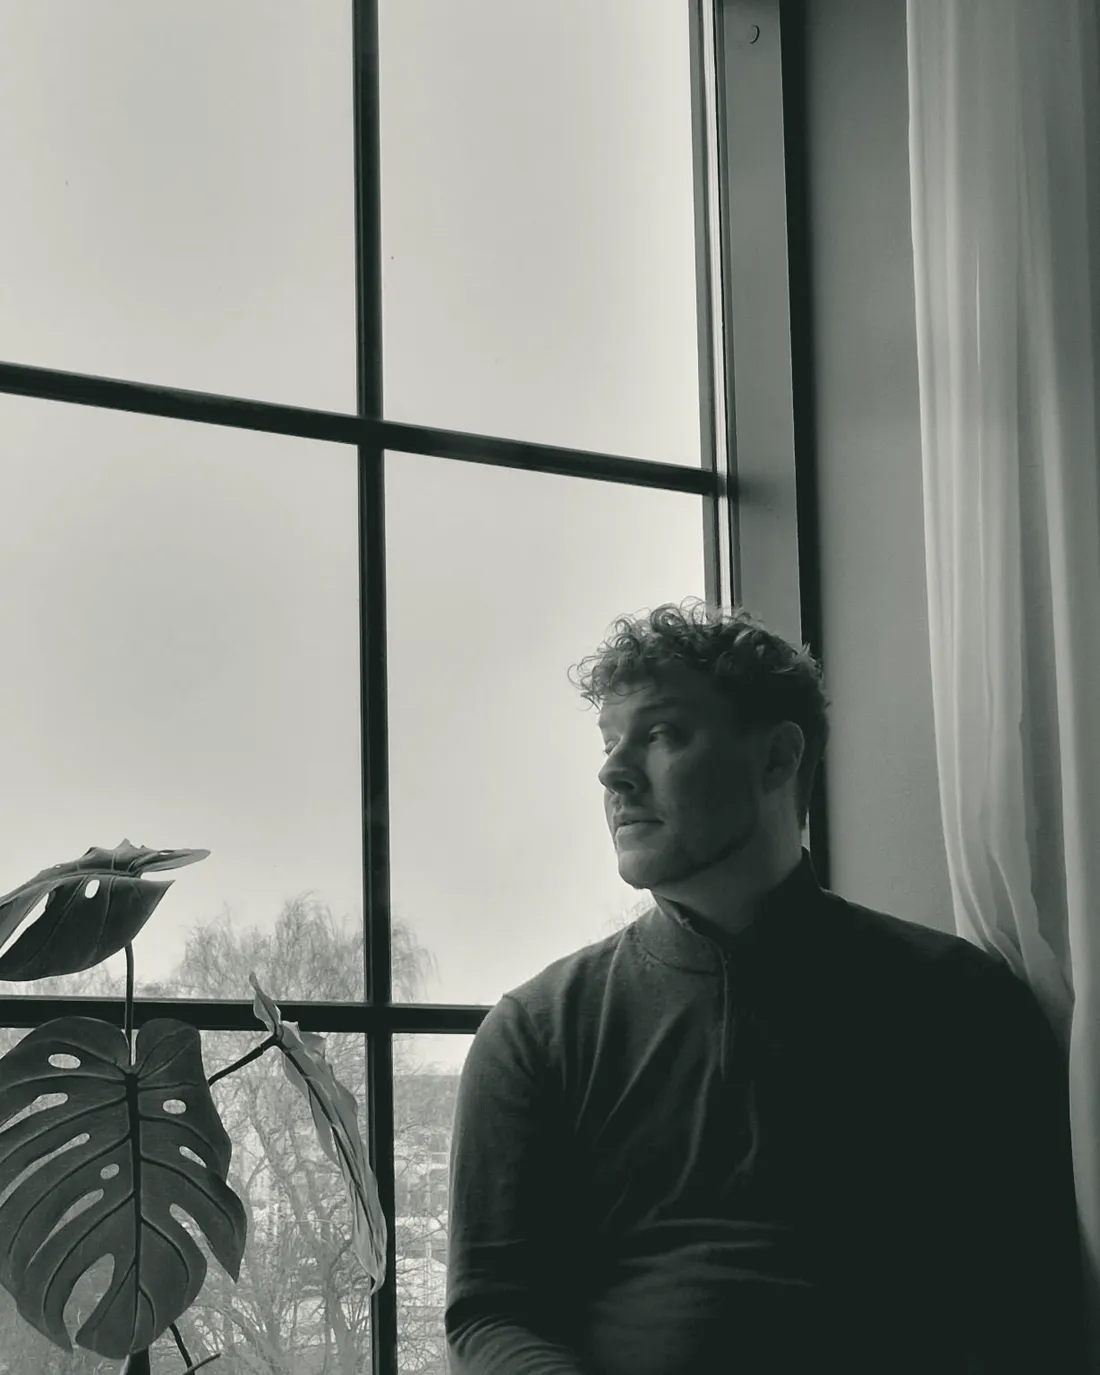
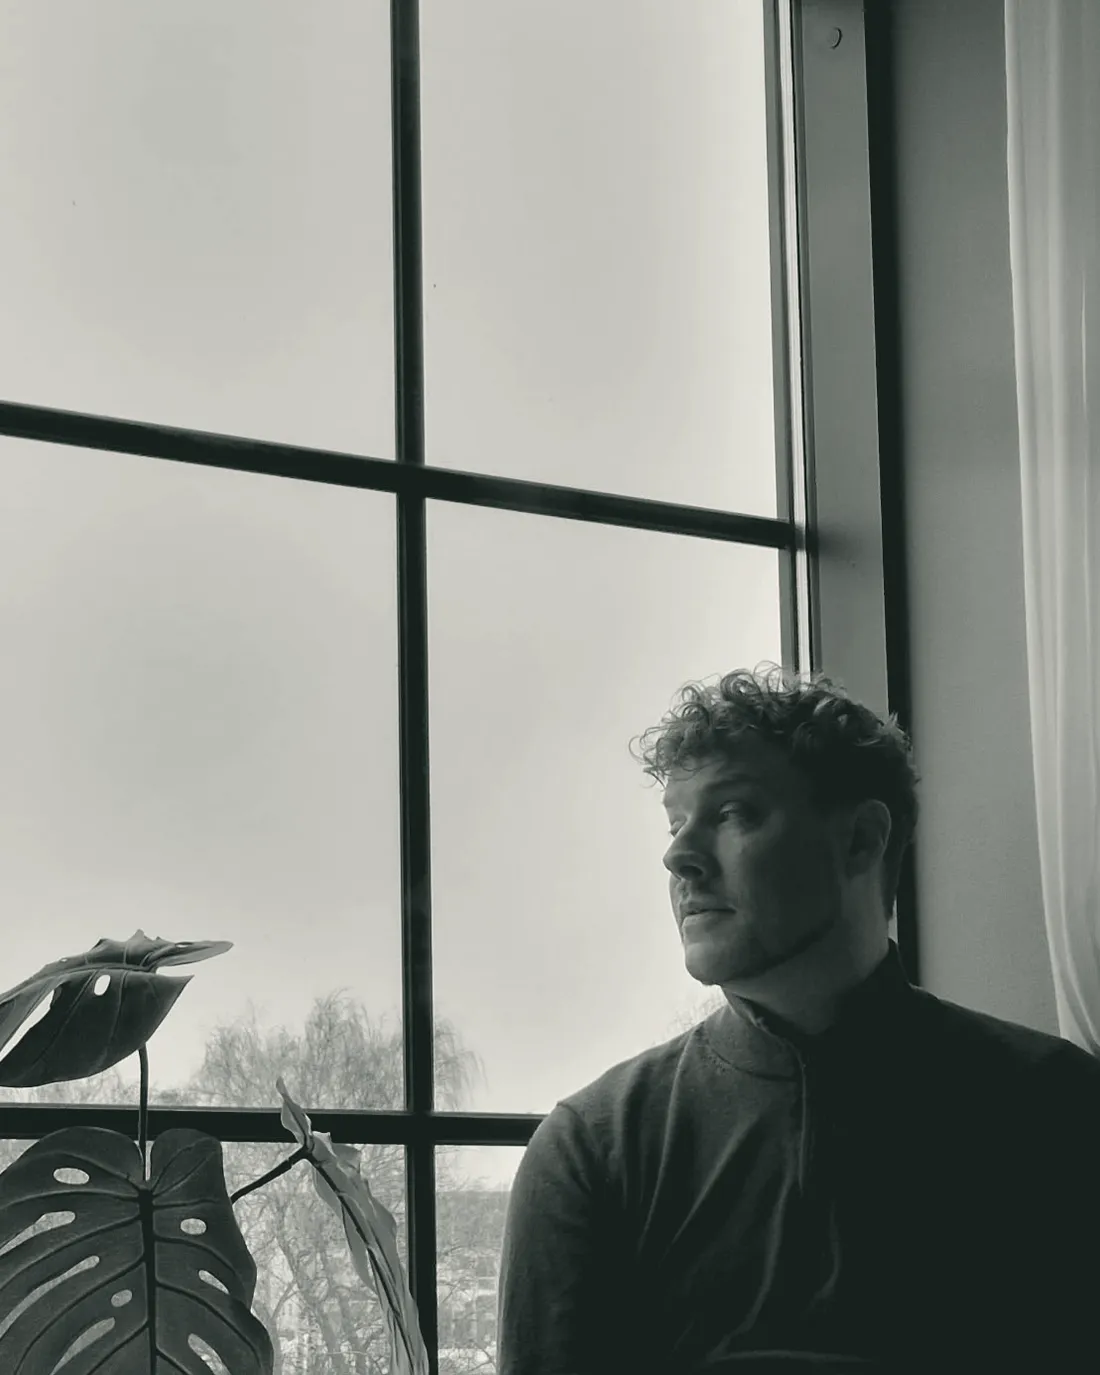
Tighter hero crop, 'Where IT is heading' section, Business Development wording, se.linkedin.com URL

diff --git a/src/data/profile.ts b/src/data/profile.ts
@@ -7,13 +7,13 @@ export const profile = {
   org: "Hemfrid / KEYTO Group",
   location: "Stockholm, Sweden",
   email: "oskar.uddenberg@gmail.com",
-  linkedin: "https://www.linkedin.com/in/oskaruddenberg/",
+  linkedin: "https://se.linkedin.com/in/oskaruddenberg",
   url: "https://oskaruddenberg.com/",
   lede:
     "I lead technology organisations where IT is not a support function but a driver of simplicity, efficiency and long-term value.",
   intro: [
     "My career runs from developer and consultant to leading technical organisations in e-commerce, music tech and home services.",
-    "At Hemfrid, part of KEYTO Group, I lead IT Operations, IT Engineering and Change Management, and sit on the management team. I own the IT strategy, security and compliance, align the technology roadmap with group strategy, and work with M&A integration as the group grows.",
+    "At Hemfrid, part of KEYTO Group, I lead IT Operations, IT Engineering and Business Development, and sit on the management team. I own the IT strategy, security and compliance, align the technology roadmap with group strategy, and work with M&A integration as the group grows.",
     "Much of my current work is about building AI capability inside the organisation, so that AI-driven work becomes a normal part of how we develop software and make decisions.",
   ],
 };
@@ -168,4 +168,28 @@ export const offDuty = {
     width: 1600, height: 800,
     alt: "A Jack Russell and a Dalmatian asleep side by side on a fluffy blanket",
   },
+};
+
+// "Where IT is heading": open questions I keep coming back to.
+export const thinking = {
+  intro:
+    "AI is making technology cheaper and faster to build. What I keep coming back to is what that does to the IT organisation over the next few years.",
+  questions: [
+    {
+      q: "Which roles stay in IT, and which move into the business?",
+      a: "When building gets cheap, more of the work can sit close to the people who own the problem. The open question is where the line goes for platforms, security, data and integration.",
+    },
+    {
+      q: "How many teams do you actually need?",
+      a: "If a small team can deliver what a large one used to, team design has to start from ownership and flow, not headcount.",
+    },
+    {
+      q: "Specialists or generalists?",
+      a: "AI raises the floor for generalists, but someone still has to know where the sharp edges are. The mix, and who you hire first, is changing.",
+    },
+    {
+      q: "What remains when tech is cheap?",
+      a: "Understanding the problem, writing good requirements and helping people change how they work. These were always the hard parts, and they are becoming the main ones.",
+    },
+  ],
 };

diff --git a/src/styles/global.css b/src/styles/global.css
@@ -163,8 +163,18 @@ nav { margin-left: auto; }
 .principle-title { font-size: var(--text-lg); font-weight: 600; line-height: 1.3; }
 .principle p { color: var(--muted); max-width: 46ch; }
 
+/* Thinking */
+.thinking { padding-block: clamp(var(--space-16), 8vw, var(--space-24)); background: var(--ink); color: var(--bg); }
+.thinking .section-title { color: var(--bg); }
+.thinking-intro { font-size: var(--text-lg); line-height: 1.5; max-width: 52ch; color: oklch(from var(--bg) l c h / 0.8); }
+.questions { margin-top: var(--space-12); border-top: 1px solid oklch(from var(--bg) l c h / 0.18); }
+.question { display: grid; grid-template-columns: 1fr 2fr; gap: var(--space-8); padding-block: var(--space-8); border-bottom: 1px solid oklch(from var(--bg) l c h / 0.18); }
+.question-q { font-family: var(--font-display); font-style: italic; font-weight: 400; font-size: var(--text-xl); line-height: 1.15; letter-spacing: -0.01em; }
+.question-a { max-width: 58ch; color: oklch(from var(--bg) l c h / 0.78); padding-top: 0.35em; }
+.thinking :focus-visible { outline-color: var(--bg); }
+
 /* Background */
-.background { padding-block: clamp(var(--space-12), 6vw, var(--space-16)) clamp(var(--space-16), 8vw, var(--space-24)); border-top: 1px solid var(--line); }
+.background { padding-block: clamp(var(--space-16), 8vw, var(--space-24)); }
 .bg-grid { display: grid; grid-template-columns: 1.3fr 1fr 0.8fr; gap: var(--space-12); margin-top: var(--space-12); }
 .bg-grid .label { margin-bottom: var(--space-4); }
 .facts { display: grid; gap: var(--space-6); }
@@ -211,6 +221,7 @@ nav { margin-left: auto; }
   .split, .section-head, .role { grid-template-columns: 1fr; gap: var(--space-3); }
   .section-head { margin-bottom: var(--space-8); }
   .principles { grid-template-columns: 1fr; gap: var(--space-8); }
+  .question { grid-template-columns: 1fr; gap: var(--space-3); }
   .bg-grid { grid-template-columns: 1fr; gap: var(--space-8); }
   .offduty-list { grid-template-columns: 1fr; }
 }
